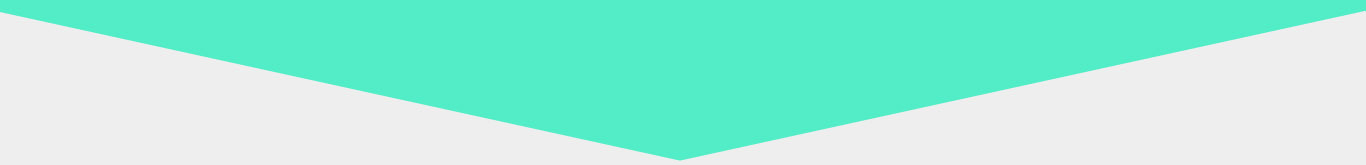
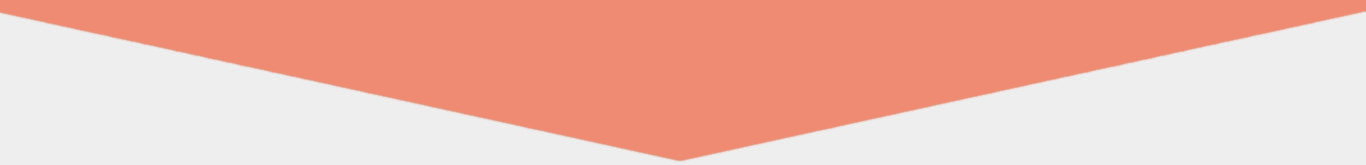
ready to deploy

diff --git a/css/style.css b/css/style.css
@@ -1276,7 +1276,7 @@ color:#ffffff;
 	min-height:188px;
 }
 .contact-back{
-	background: url(../images/con-t.jpg) no-repeat 0px 0px;
+	background: url(../images/con-t1.png) no-repeat 0px 0px;
 	background-size: cover;
 	-webkit-background-size: cover;
 	-moz-background-size: cover;
@@ -2202,7 +2202,7 @@ border:none;
 	  font-size: 32px;
 	  }
 	.contact {
-	  padding: 45px 0 0 0;
+	  /*padding: 45px 0 0 0;*/
 	}
 	.contact-grids {
 	  margin-top: 45px;
@@ -2832,6 +2832,9 @@ border:none;
 	  float: left;
 	  width: 23%;
 	}
+  .contact-left ul li a{
+    font-size: 12px;
+  }
   .work-grid-info {
     min-height: 50px;
   }
@@ -3109,6 +3112,7 @@ border:none;
 	}
 	.work-grid h3 {
 	  font-size: 13px;
+    color:white;
 	}
 	.work-grid-info h4 {
 	  font-size: 13px;
@@ -3231,8 +3235,8 @@ border:none;
 	  width: 54% !important;
 	}
 	.contact-right form input[type="submit"] {
-	  width: 55%;
-	  background: url(../images/mess.png) no-repeat 14px 11px;
+	  width: 70%;
+	  background: url(../images/mess.png) no-repeat 12px 11px;
 	}
 	.footer-top {
 	  min-height: 55px;
@@ -3250,6 +3254,9 @@ border:none;
 @media(max-width:320px){
 .col-md-4.sample-page-right {
   padding: 0;
+}
+.contact-left ul li a{
+  font-size: 12px;
 }
 .work-grid-info {
   min-height: 50px;
